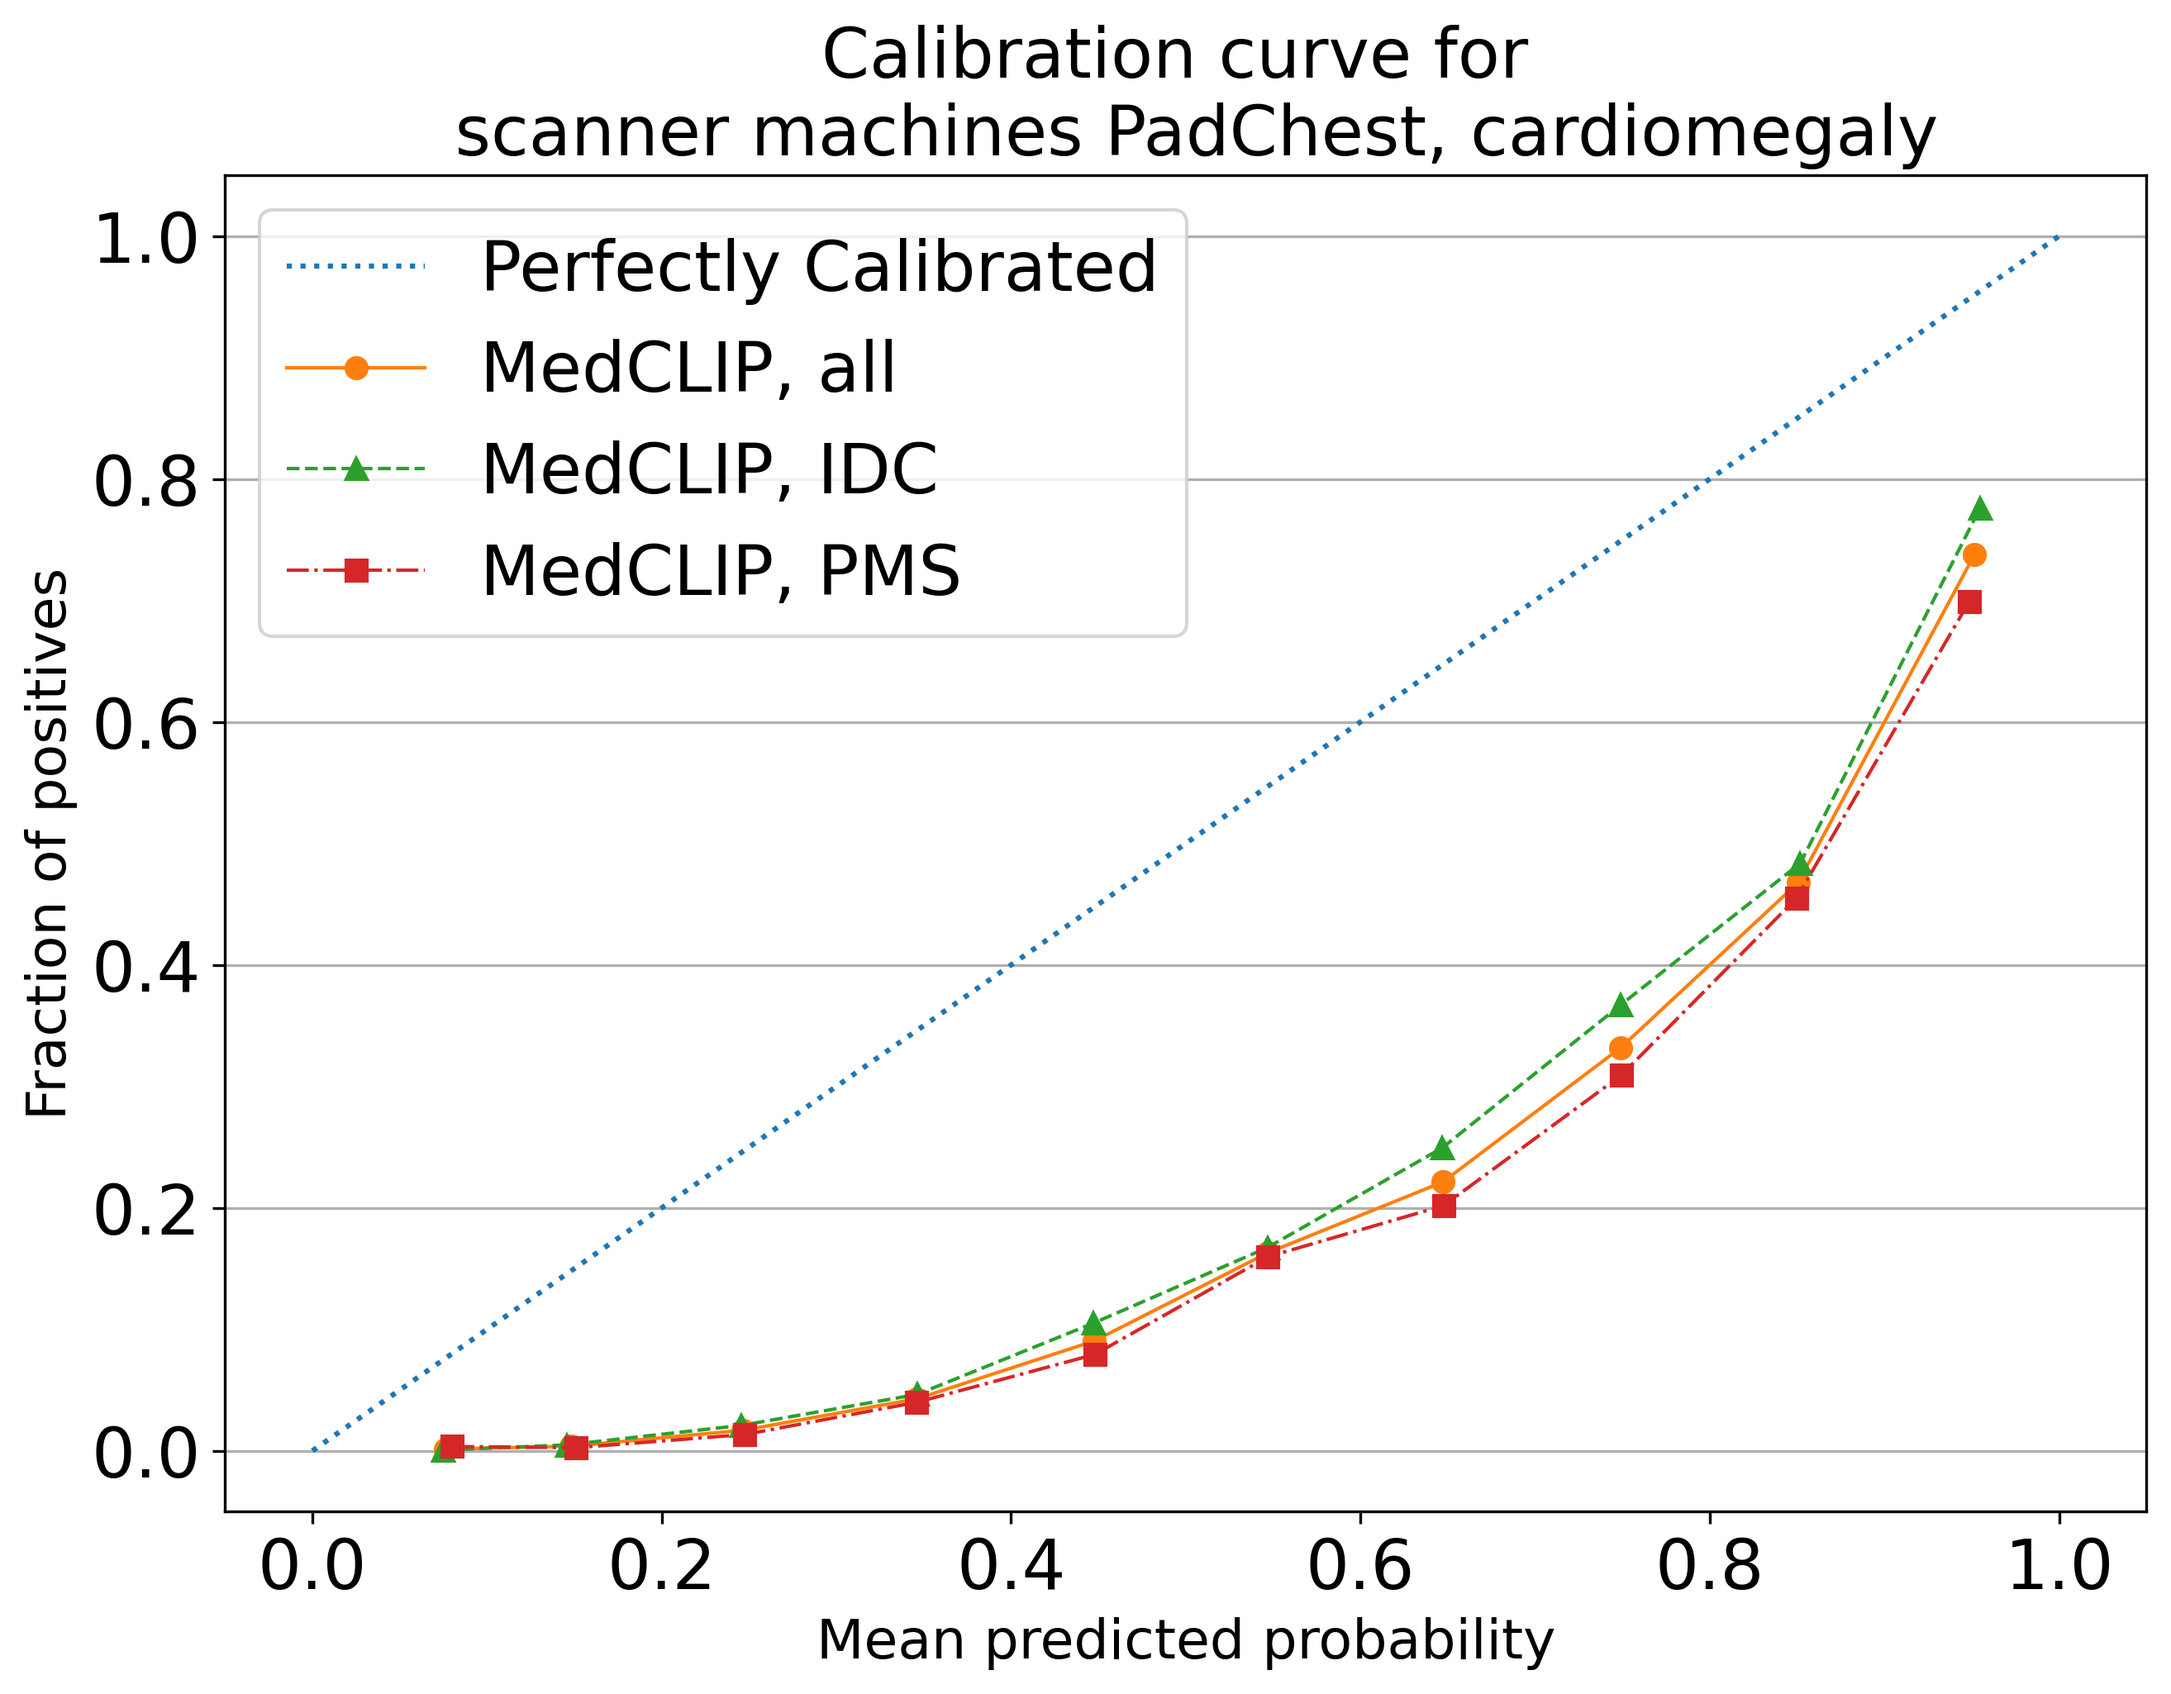
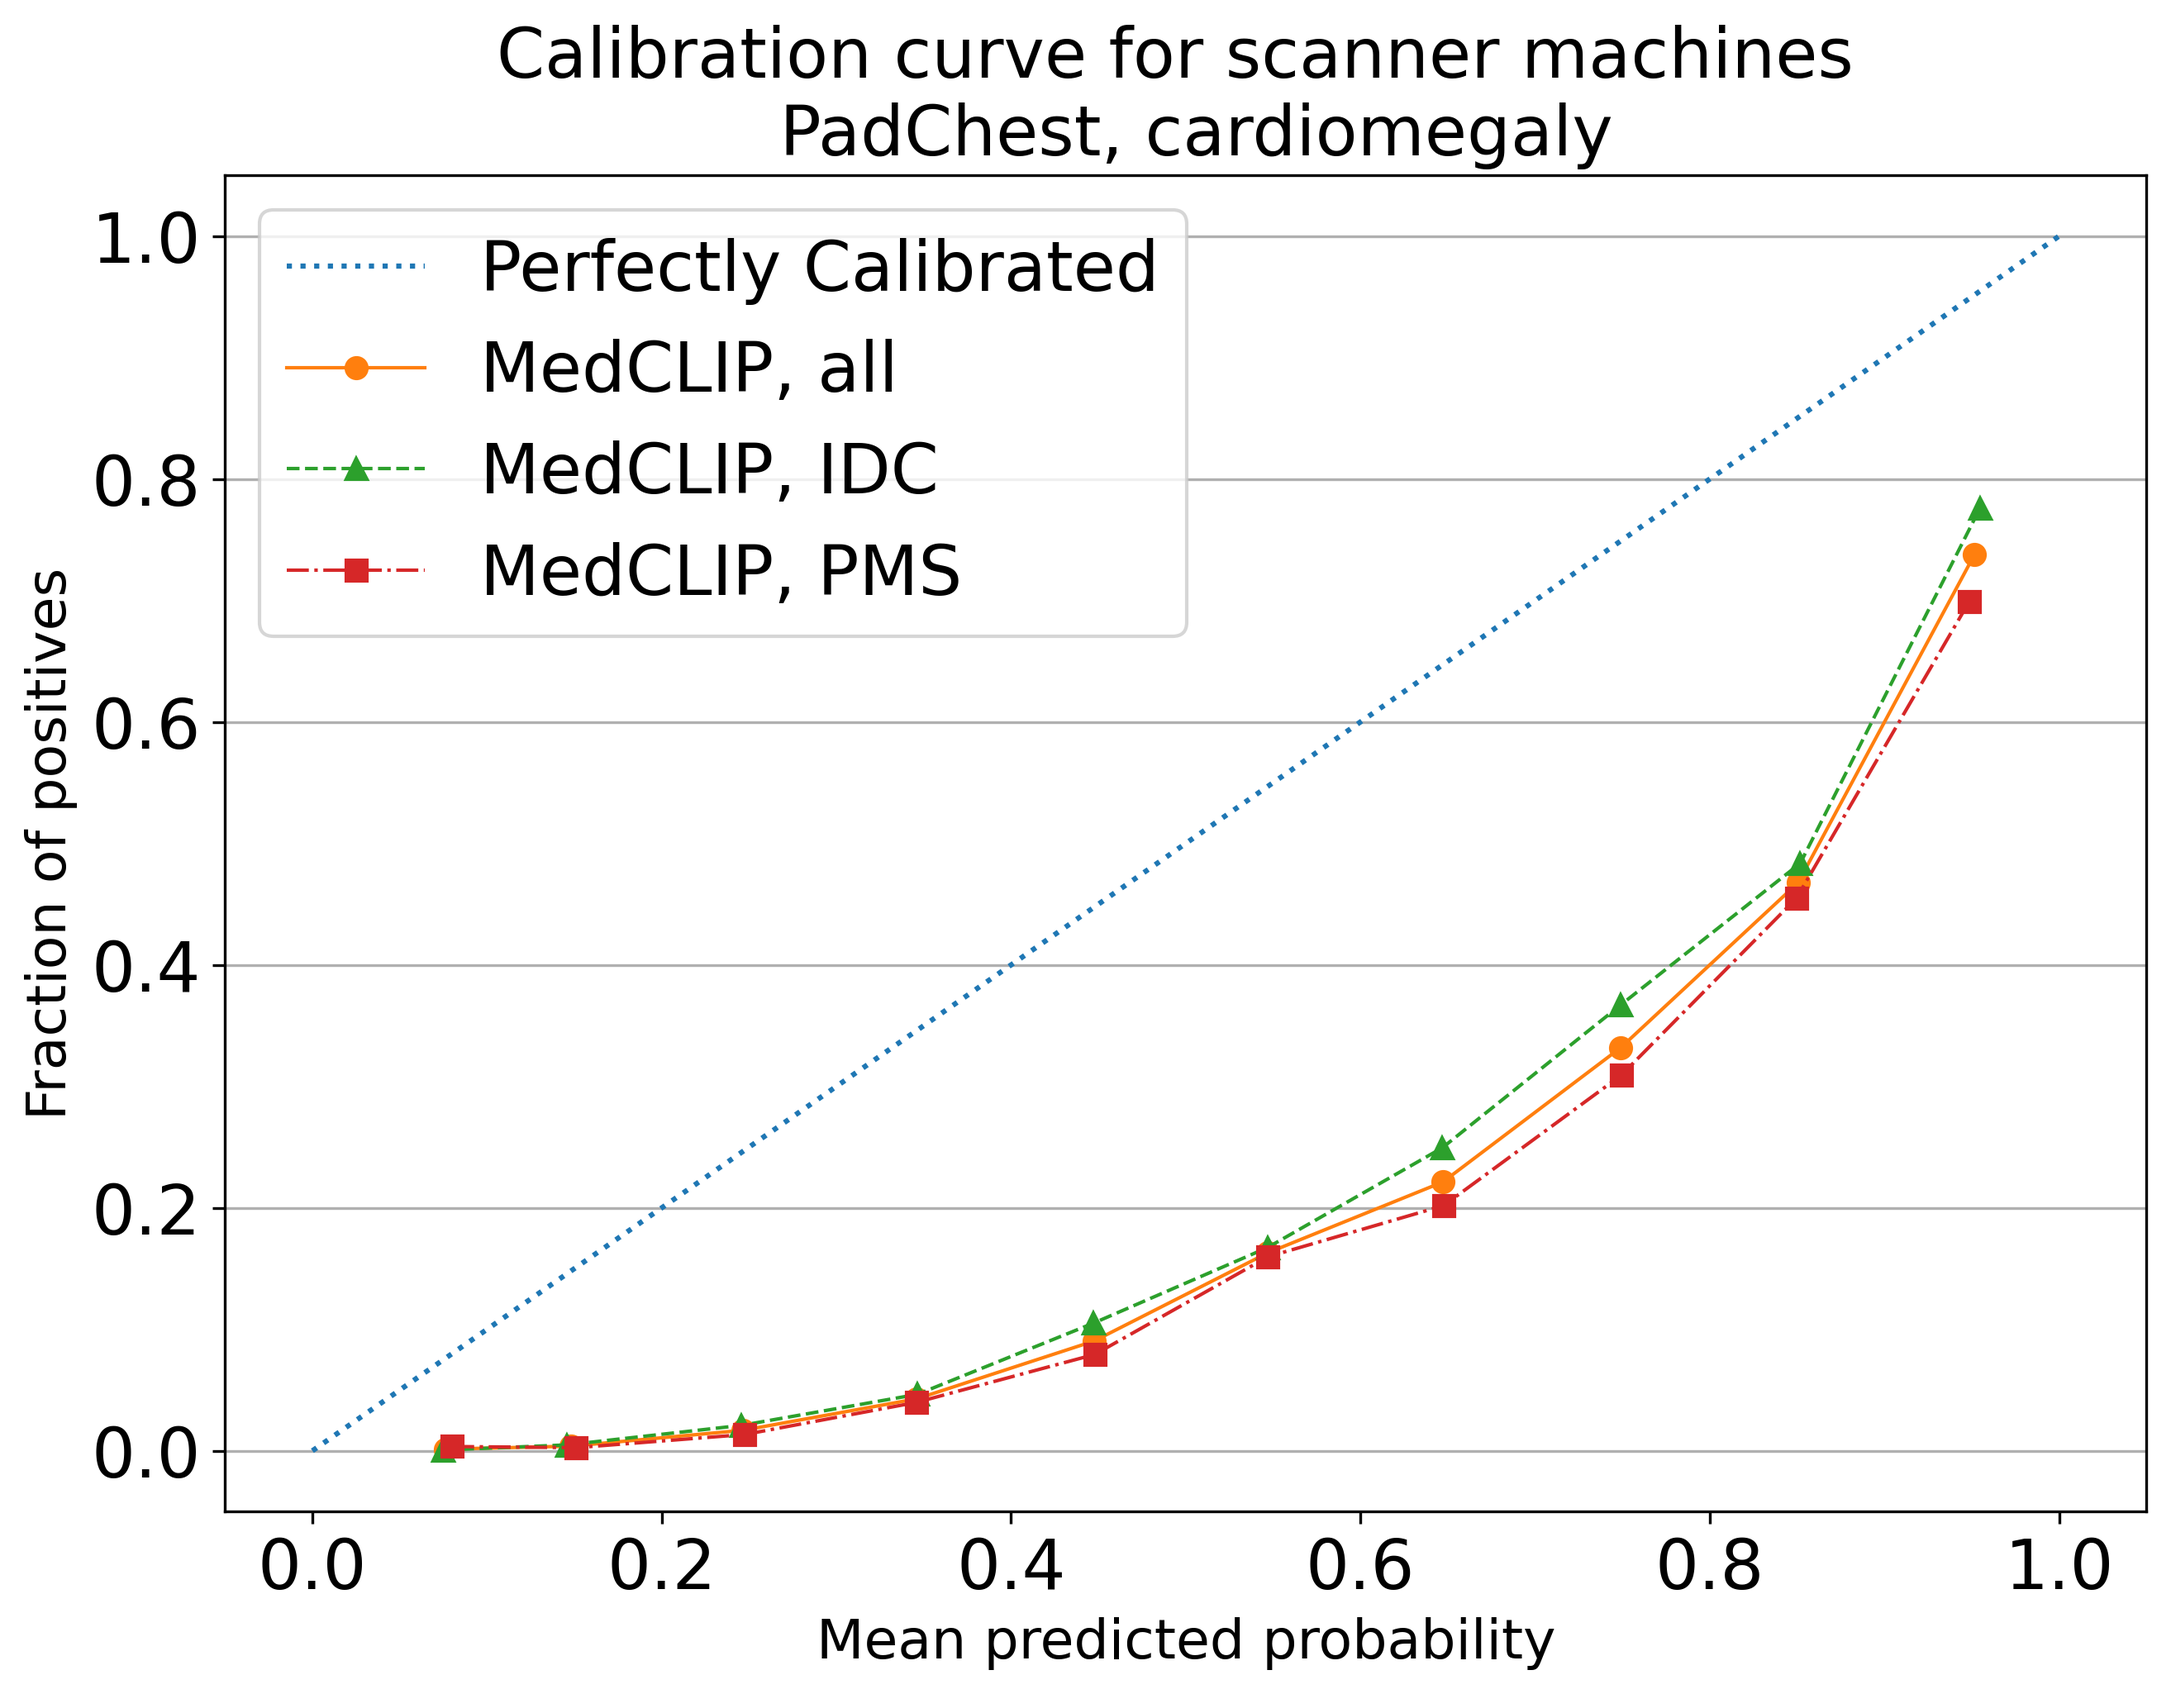
title changes

Changed region(s): [[0.2185, 0.0, 0.9052, 0.0937]]

diff --git a/src/models/plotting_all.py b/src/models/plotting_all.py
@@ -701,7 +701,7 @@ def calibration_curves_scanner_padchest():
     plt.grid(axis='y')
     plt.xlabel('Mean predicted probability',fontdict = {'fontsize' : 16})
     plt.ylabel('Fraction of positives',fontdict = {'fontsize' : 16})
-    plt.title("Calibration curve for \n scanner machines PadChest, cardiomegaly", fontsize=20)
+    plt.title("Calibration curve for scanner machines \n PadChest, cardiomegaly", fontsize=20)
     plt.xticks(fontsize=20)
     plt.yticks(fontsize=20)
     plt.legend(fontsize=20)
@@ -744,7 +744,7 @@ def calibration_curves_sex_padchest():
     plt.grid(axis='y')
     plt.xlabel('Mean predicted probability',fontdict = {'fontsize' : 16})
     plt.ylabel('Fraction of positives',fontdict = {'fontsize' : 16})
-    plt.title("Calibration curve for \n patient sex PadChest, cardiomegaly", fontsize=20)
+    plt.title("Calibration curve for patient sex \n PadChest, cardiomegaly", fontsize=20)
     plt.xticks(fontsize=20)
     plt.yticks(fontsize=20)
     plt.legend(fontsize=20)
@@ -787,7 +787,7 @@ def calibration_curves_scanner_padchest_px():
     plt.grid(axis='y')
     plt.xlabel('Mean predicted probability',fontdict = {'fontsize' : 16})
     plt.ylabel('Fraction of positives',fontdict = {'fontsize' : 16})
-    plt.title("Calibration curve for \n scanner machines PadChest, pneumothorax", fontsize=20)
+    plt.title("Calibration curve for scanner machines \n PadChest, pneumothorax", fontsize=20)
     plt.xticks(fontsize=20)
     plt.yticks(fontsize=20)
     plt.legend(fontsize=20)
@@ -830,7 +830,7 @@ def calibration_curves_sex_padchest_px():
     plt.grid(axis='y')
     plt.xlabel("Mean predicted probability",fontdict = {'fontsize' : 16})
     plt.ylabel("Fraction of positives",fontdict = {'fontsize' : 16})
-    plt.title("Calibration curve for \n patient sex PadChest, pneumothorax", fontsize=20)
+    plt.title("Calibration curve for patient sex \n PadChest, pneumothorax", fontsize=20)
     plt.xticks(fontsize=20)
     plt.yticks(fontsize=20)
     plt.legend(fontsize=20)
